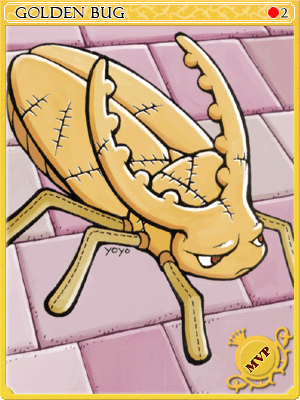
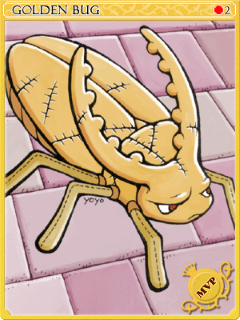
fix: image

diff --git a/src/app/category/[category]/page.tsx b/src/app/category/[category]/page.tsx
@@ -1,5 +1,5 @@
 'use client';
-import { Card, CardBody, Spacer, Image, Button } from '@nextui-org/react';
+import { Card, CardBody, Spacer, Button } from '@nextui-org/react';
 import NextImage from 'next/image';
 import { Options } from '@/data';
 import { useParams, useRouter } from 'next/navigation';
@@ -45,25 +45,24 @@ export default function QuizStep() {
         {current + 1}/{length}
       </h2>
       <Spacer y={8} />
-      <div className="flex flex-col items-center sm:flex-row sm:flex-row-reverse sm:items-start">
-        <div className="flex flex-col font-kiwi text-xl leading-loose tracking-[.3em] grow">
+      <div className="flex flex-col items-center sm:flex-row sm:flex-row-reverse sm:items-start sm:w-full">
+        <div className="flex flex-col font-kiwi text-xl leading-loose tracking-[.3em] grow sm: flex-1">
           <p>
             <span>問題:{current + 1}</span>
             <span className="ml-4">{data?.title}</span>
           </p>
           <p className="mt-5">{data?.description}</p>
         </div>
-        <div className="mt-6 w-3/4 sm:w-3/12 sm:mr-6 sm:-mt-0">
-          <Image
-            as={NextImage}
-            alt="Description Image"
-            src={data.img?.src}
-            width="320"
-            height="320"
-            sizes="100vw"
-            className="w-full h-auto"
-            priority
-          />
+        <div className="mt-6 relative w-[240px] h-[320px] sm:mr-6 sm:-mt-0">
+          {data.img && (
+            <NextImage
+              alt="Description Image"
+              src={data.img?.src || ''}
+              style={{ objectFit: 'cover' }}
+              priority
+              fill
+            />
+          )}
         </div>
       </div>
       <Spacer y={8} />

diff --git a/src/app/category/[category]/_hooks.ts b/src/app/category/[category]/_hooks.ts
@@ -41,8 +41,8 @@ const setJudge = (quiz: Quiz[]) =>
 
 export const useQuiz = () => {
   const { category } = useParams();
-  const [playCorrectSfx] = useSound(correctSfx, { volume: 0.5 });
-  const [playIncorrectSfx] = useSound(incorrectSfx, { volume: 0.5 });
+  const [playCorrectSfx] = useSound(correctSfx, { volume: 1 });
+  const [playIncorrectSfx] = useSound(incorrectSfx, { volume: 1 });
   const quizOrig = getQuiz(category as CategoryId);
   const length = getStepLength(quizOrig);
   const initializeQuiz = useSetRecoilState(quizInitializeSelector);
@@ -52,9 +52,8 @@ export const useQuiz = () => {
     setQuiz(setJudge(quizWithAnser));
 
     const currentQuiz = quizWithAnser[current];
-    currentQuiz.answer === currentQuiz.correct
-      ? playCorrectSfx()
-      : playIncorrectSfx();
+    if (currentQuiz.answer === currentQuiz.correct) playCorrectSfx();
+    if (currentQuiz.answer !== currentQuiz.correct) playIncorrectSfx();
   };
 
   useEffect(() => {
